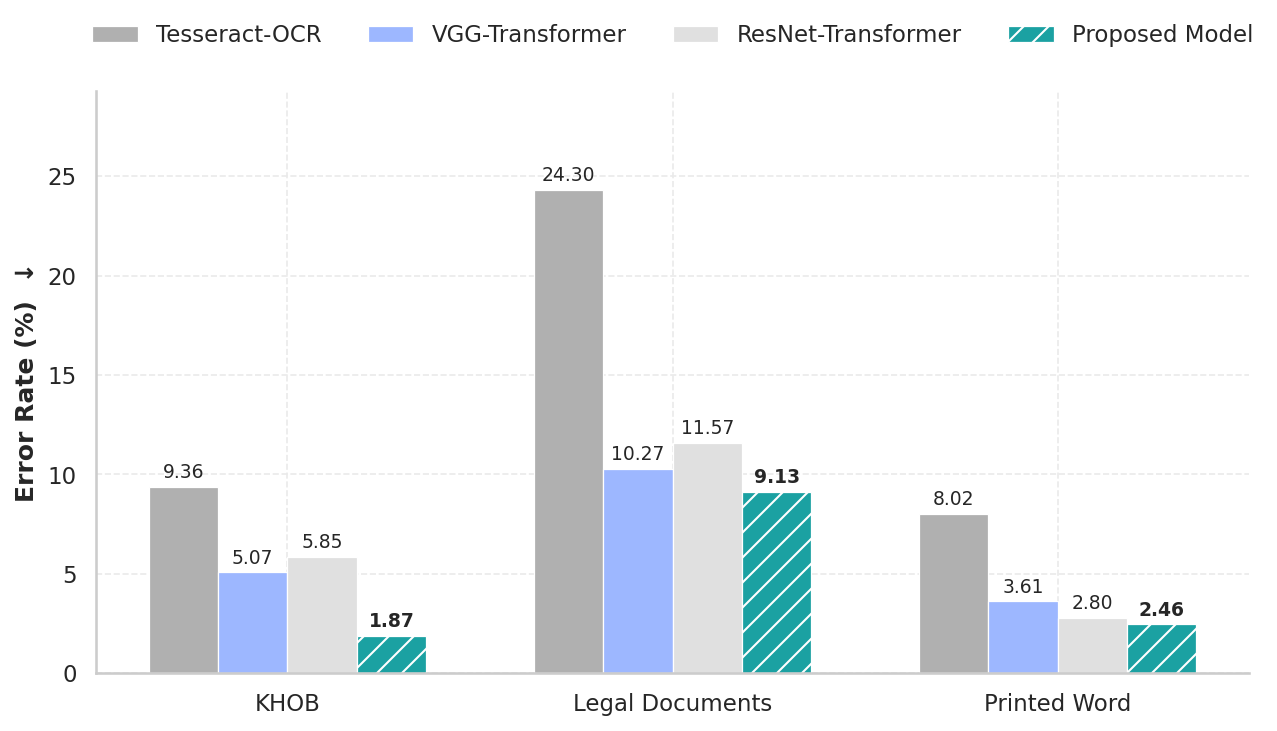
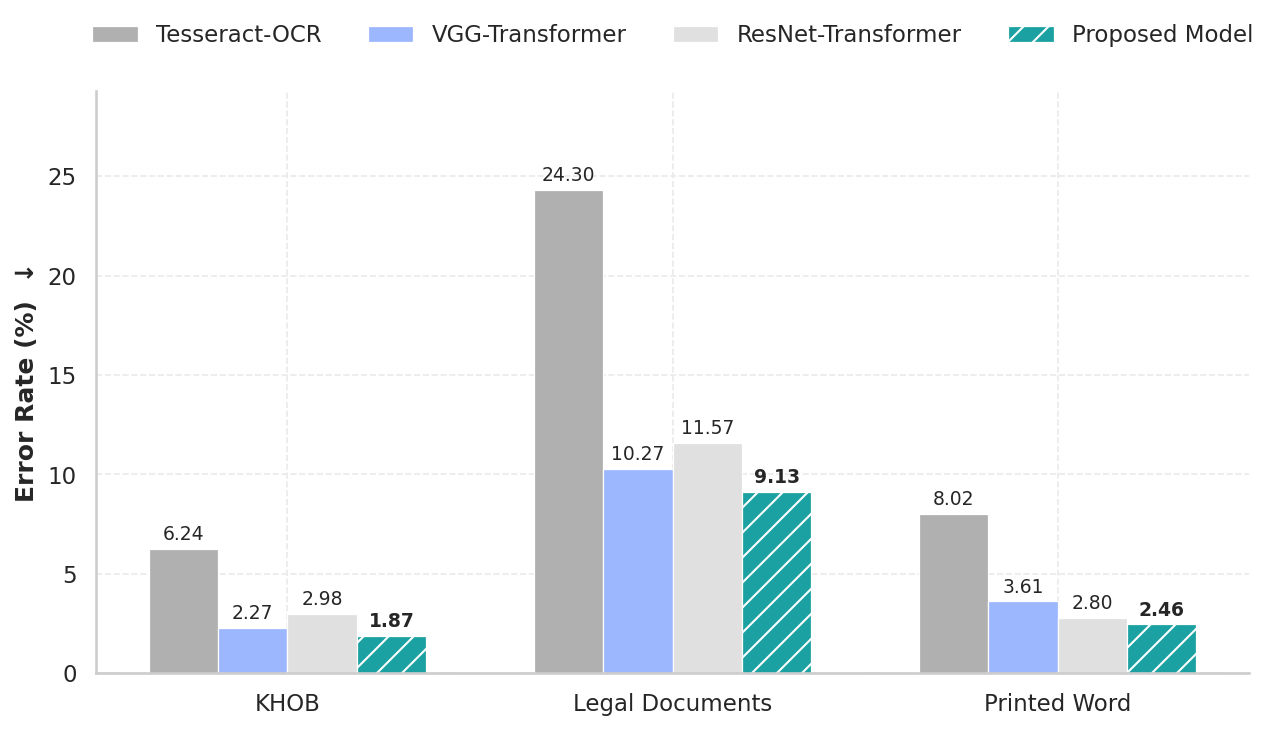
update benchmark

Changed region(s): [[0.1527, 0.7223, 0.3054, 0.8728], [0.0916, 0.632, 0.1832, 0.7524]]

diff --git a/readme.md b/readme.md
@@ -126,9 +126,9 @@ TABLE 1: Character Error Rate (CER in %) results on the KHOB, Legal Documents, a
 
 | Model | KHOB | Legal Documents | Printed Word |
 | :--- | :--- | :--- | :--- |
-| Tesseract-OCR | 9.36 | 24.30 | 8.02 |
-| VGG-Transformer | 5.07 | 10.27 | 3.61 |
-| ResNet-Transformer | 5.85 | 11.57 | 2.80 |
+| Tesseract-OCR | 6.24 | 24.30 | 8.02 |
+| VGG-Transformer | 2.27 | 10.27 | 3.61 |
+| ResNet-Transformer | 2.98 | 11.57 | 2.80 |
 | **Proposed Model** | $\textcolor{yellow}{1.87}$ | $\textcolor{yellow}{9.13}$ | $\textcolor{yellow}{2.46}$ |
 
 ---
